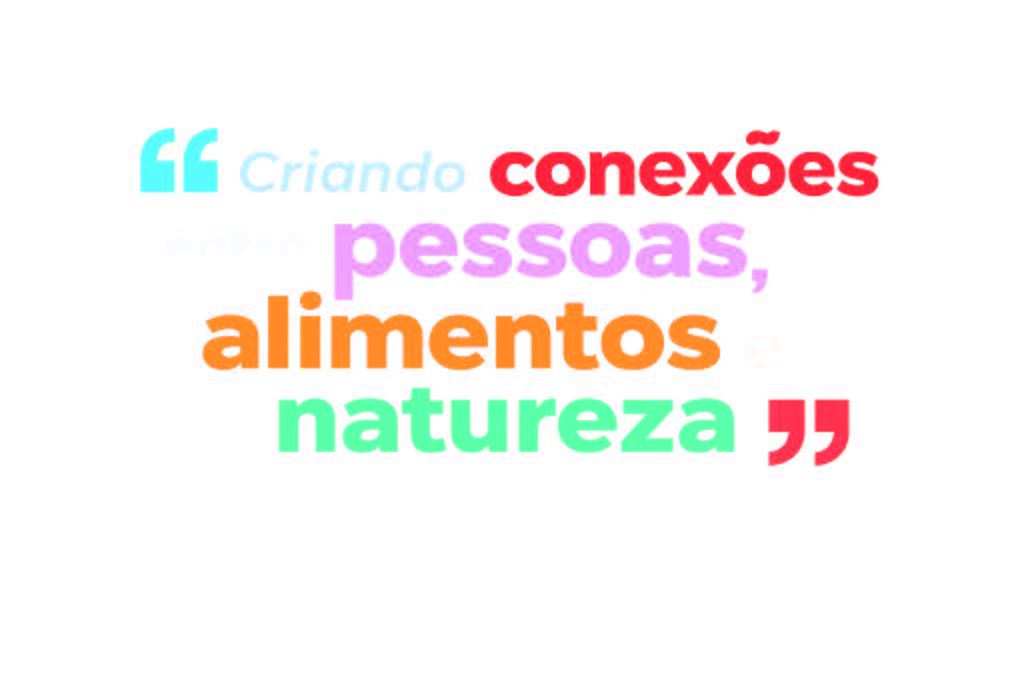
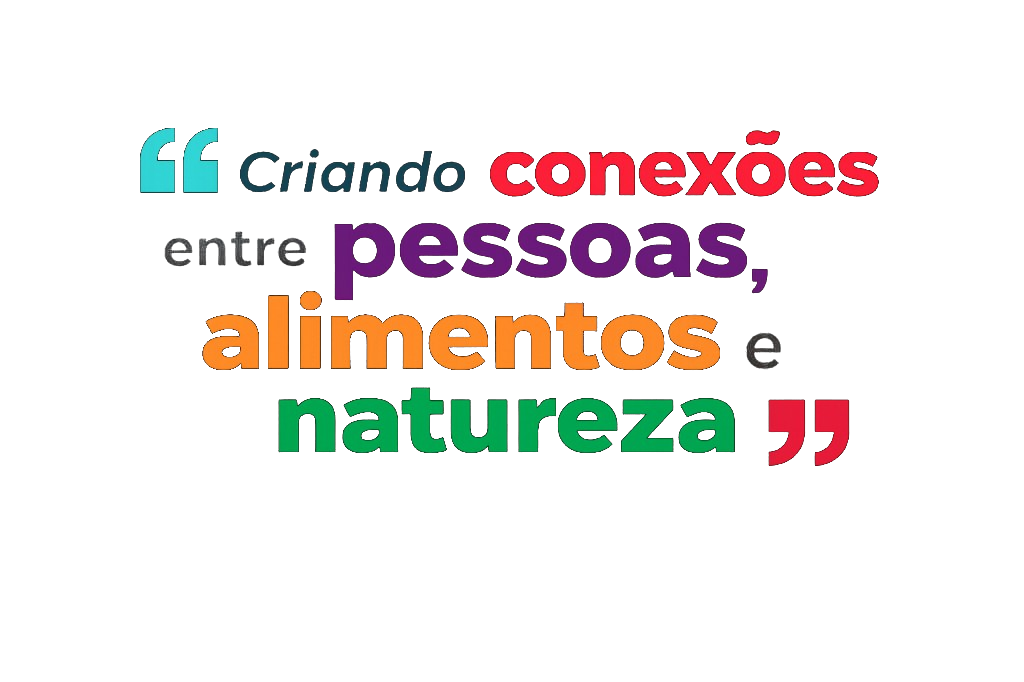
brand(tagline): PNG oficial com matte smoothstep preserva cores escuras
- Substitui recriacao programatica por asset oficial em /brand/minerva-tagline.png
- scripts/process_tagline.py processa o PNG aplicando matte por luminancia
  (smoothstep entre 12 e 48): fundo preto puro vira transparente, letras
  de TODAS as cores (incl. navy/cinza/roxo escuro) ficam opacas com cores
  RGB originais preservadas. Bordas anti-aliased ficam suaves.
- Resultado: tagline legivel em fundo claro E escuro com as cores oficiais
- MinervaTagline.tsx renderiza <img> simples com size hero/large/medium/compact
- Remove --tagline-* CSS vars nao usadas

diff --git a/scripts/process_tagline.py b/scripts/process_tagline.py
@@ -1,7 +1,22 @@
 """
-Remove o fundo preto do PNG oficial da tagline Minerva e gera versao com alpha
-transparente real. Tecnica: alpha = max(R,G,B), com leve compensacao das cores
-para evitar "halos" pretos no anti-aliasing das letras.
+Remove o fundo preto do PNG oficial da tagline Minerva, gerando alpha
+transparente real e PRESERVANDO as cores oficiais (inclusive as escuras
+como navy/roxo/cinza, que precisam ficar legiveis em fundo claro).
+
+Tecnica - smoothstep matte por luminancia:
+    L = 0.299*R + 0.587*G + 0.114*B   (luminancia perceptual)
+    alpha:
+        L <= T_LOW              -> 0    (fundo preto puro)
+        L >= T_HIGH             -> 255  (interior da letra: opaco)
+        T_LOW < L < T_HIGH      -> smoothstep entre os dois (borda AA)
+
+    (R, G, B) sao mantidos ORIGINAIS.
+
+Resultado:
+    - Fundo preto sumiu totalmente.
+    - Letras de TODAS as cores (incluindo navy escuro e cinza) ficam opacas
+      e legiveis em fundo claro e escuro.
+    - Bordas anti-aliased ficam suaves graca a faixa intermediaria.
 
 Uso:
     python scripts/process_tagline.py
@@ -12,7 +27,20 @@ from pathlib import Path
 from PIL import Image
 
 SRC = Path("public/brand/minerva-tagline.png")
-DST = SRC  # sobrescreve in-place
+DST = SRC
+
+# Faixa de transicao do matte (em luminancia 0..255).
+T_LOW = 12   # abaixo disso, considera fundo
+T_HIGH = 48  # acima disso, considera letra solida
+
+
+def smoothstep(t0: float, t1: float, x: float) -> float:
+    if x <= t0:
+        return 0.0
+    if x >= t1:
+        return 1.0
+    n = (x - t0) / (t1 - t0)
+    return n * n * (3.0 - 2.0 * n)
 
 
 def main() -> None:
@@ -20,27 +48,29 @@ def main() -> None:
     w, h = img.size
     px = img.load()
 
+    opaque_count = 0
+    transparent_count = 0
+    partial_count = 0
+
     for y in range(h):
         for x in range(w):
             r, g, b, _ = px[x, y]
-            # alpha = canal mais brilhante: preto puro = 0 (transparente),
-            # branco/colorido = 255 (opaco). Bordas anti-aliased ficam
-            # semi-transparentes preservando a cor da letra.
-            a = max(r, g, b)
+            lum = 0.299 * r + 0.587 * g + 0.114 * b
+            a = int(round(smoothstep(T_LOW, T_HIGH, lum) * 255))
+            px[x, y] = (r, g, b, a)
             if a == 0:
-                px[x, y] = (0, 0, 0, 0)
-                continue
-            # Compensa "halo" preto nas bordas: divide a cor pelo alpha
-            # (premultiplied -> straight alpha). Resultado: cores saturadas
-            # bonitas em qualquer fundo (claro ou escuro).
-            scale = 255.0 / a
-            nr = min(255, int(r * scale))
-            ng = min(255, int(g * scale))
-            nb = min(255, int(b * scale))
-            px[x, y] = (nr, ng, nb, a)
+                transparent_count += 1
+            elif a == 255:
+                opaque_count += 1
+            else:
+                partial_count += 1
 
     img.save(DST, "PNG", optimize=True)
     print(f"OK -> {DST} ({DST.stat().st_size // 1024} KB)")
+    print(
+        f"   transparent={transparent_count}  partial={partial_count}  "
+        f"opaque={opaque_count}"
+    )
 
 
 if __name__ == "__main__":